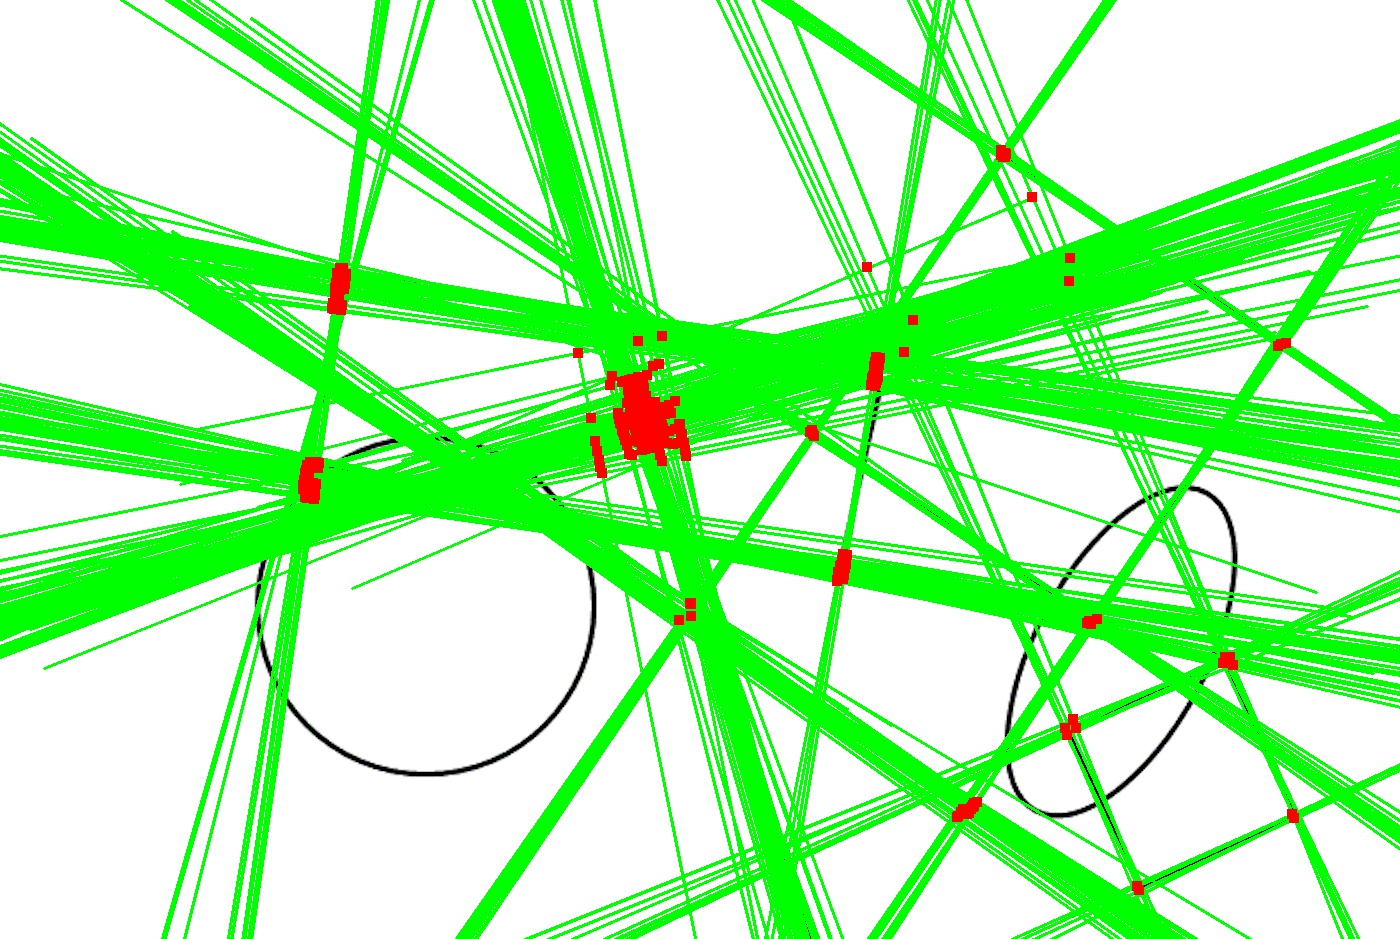
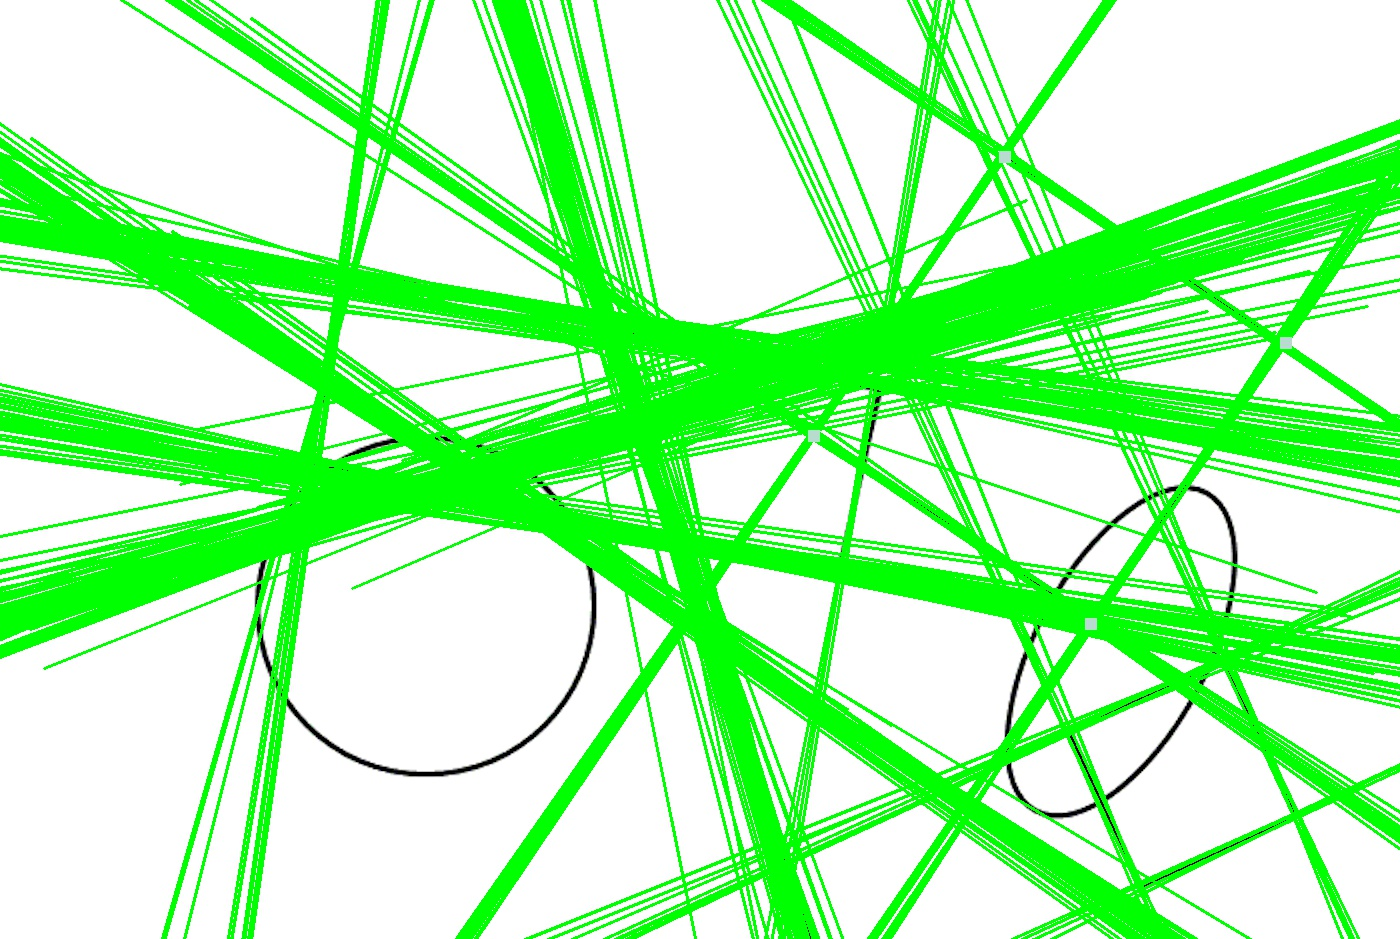
third commit

diff --git a/main.py b/main.py
@@ -7,6 +7,7 @@ import math
 from numpy.linalg import solve
 # http://qiita.com/junkls/items/10384950963056cc8e08
 import itertools
+import random
 
 class MyVector:
     def __init__(self, x1, y1, x2, y2):
@@ -55,21 +56,55 @@ def delete_near_points(pts):
         result_points.append(p1)
 
         # 自分のpointに近いものを削除
-        pts_ = [p2 for p2 in pts_ if np.linalg.norm(p1-p2) > 20]
+        pts_ = [p2 for p2 in pts_ if np.linalg.norm(p1-p2) > 50]
 
     return result_points
 
 def draw_points(img, pts):
-    for x, y in pts:
-        draw_pixel(img, x, y)
-    
-def draw_pixel(img, x, y):
-    a = 5 # 画像を塗る範囲
+    color = [int(255*random.random()),int(255*random.random()),int(255*random.random())]
 
-    color = [0,0,255]
+    for x, y in pts:
+        draw_pixel(img, x, y, color)
+    
+def draw_pixel(img, x, y, color):
+    a = 6 # 画像を塗る範囲
+
     for x_ in range(int(x)-a, int(x)+a):
         for y_ in range(int(y)-a, int(y)+a):
             img[x_,y_] = color
+
+# 絹田作
+def seihou(p1,p2,p3,p4):
+    m=(p1+p2+p3+p4)/4
+    l1=np.linalg.norm(p1-m)
+    l2=np.linalg.norm(p2-m)
+    l3=np.linalg.norm(p3-m)
+    l4=np.linalg.norm(p4-m)
+    lines=np.array([l1,l2,l3,l4])
+    ave=np.average(lines)
+    sub1=np.linalg.norm(p1-p2)
+    sub2=np.linalg.norm(p1-p3)
+    sub3=np.linalg.norm(p1-p4)
+    subsub=abs(sub1-sub2)
+    subsub2=abs(sub1-sub3)
+    subsub3=abs(sub2-sub3)
+    if (subsub > 20) and (subsub2 > 20):
+       return False
+    for line in lines:
+       #print line
+       if (line-ave) > 5 or line < 40:
+           return False
+   
+    return True
+
+def dump_points(pts):
+    for x, y in pts:
+        print "point"
+        print "x" 
+        print  x
+        print "y:" 
+        print  y
+    print ""
 
 if __name__ == '__main__':
     img = cv2.imread('./gazoukadai5.bmp')
@@ -105,15 +140,28 @@ if __name__ == '__main__':
     
     # 直交座標の量を減らす
     pts = delete_near_points(pts)
+    print len(pts)
     
     # ポイントを描画
-    draw_points(img, pts)
+    # draw_points(img, pts)
     
     # 全ての並びに対して並べる
+    rect = []
+
+    count = 0
     for p1, p2, p3, p4 in list(itertools.permutations(pts, 4)):
-        a = 1
-    
-    print len(list(itertools.permutations(pts, 4)))
+        if seihou(p1,p2,p3,p4):
+            rect.append([p1,p2,p3,p4])
+            count += 1  
+        if (count >= 1):
+            break
+
+
+    print len(rect)
+
+    for rect_pts in rect:
+        dump_points(rect_pts)
+        draw_points(img, rect_pts)
     
     cv2.imwrite('./gazoukadai.jpg',img)
     

diff --git a/backup/c2.py b/backup/c2.py
@@ -1,0 +1,71 @@
+# -*- coding: utf-8 -*-
+import cv2
+import numpy as np
+import pylab as plt
+
+## ------------------------
+## BGRからRGBに変換
+## ------------------------
+def bgr2rbg(im):
+    b,g,r = cv2.split(im)
+    im = cv2.merge([r,g,b])
+    return im
+ 
+## ------------------------
+## 結果表示
+## ------------------------
+def show_result(im1,im2,im3,im4):
+ 
+    graph = plt.figure()
+    plt.rcParams["font.size"]=15
+    # 入力画像
+    plt.subplot(2,2,1),plt.imshow(bgr2rbg(im1))
+    plt.title("Input Image")
+    # 出力画像
+    plt.subplot(2,2,2),plt.imshow(bgr2rbg(im2))
+    plt.title("Output Image")
+    # 2値化画像
+    plt.subplot(2,2,3),plt.imshow(im3,"gray")
+    plt.title("Threshold Image")
+    # 輪郭画像
+    plt.subplot(2,2,4),plt.imshow(im4,"gray")
+    plt.title("Edge Image")
+    plt.show()
+ 
+ 
+## ------------------------
+## メイン
+## ------------------------
+if __name__ == '__main__':
+ 
+    fn="gazoukadai_part.bmp"
+    # 入力画像の取得
+    im_in = cv2.imread(fn)
+    for i in range(100):
+        im_in[i+10,i+10] = [254,0,0]    
+    im_out = cv2.imread(fn)
+    # 入力画像をグレースケール変換
+    im_gray = cv2.cvtColor(im_in,cv2.COLOR_BGR2GRAY)
+ 
+    # グレースケール画像を2値化
+    im_th = cv2.adaptiveThreshold(im_gray,50,cv2.ADAPTIVE_THRESH_GAUSSIAN_C,cv2.THRESH_BINARY,11,2)
+    # 2値化画像からエッジを検出
+    im_edge = cv2.Canny(im_th,50,150,apertureSize = 3)
+    # エッジ画像から直線の検出
+    lines = cv2.HoughLines(im_edge,2,np.pi/180,200)
+
+ 
+    # 直線の描画
+    for rho,theta in lines[0]:
+        a = np.cos(theta)
+        b = np.sin(theta)
+        x0 = a*rho
+        y0 = b*rho
+        x1 = int(x0 + 1000*(-b))
+        y1 = int(y0 + 1000*(a))
+        x2 = int(x0 - 1000*(-b))
+        y2 = int(y0 - 1000*(a))
+        cv2.line(im_out,(x1,y1),(x2,y2),(0,0,255),2)
+ 
+    # 画像表示
+    show_result(im_in,im_out,im_th,im_edge)
